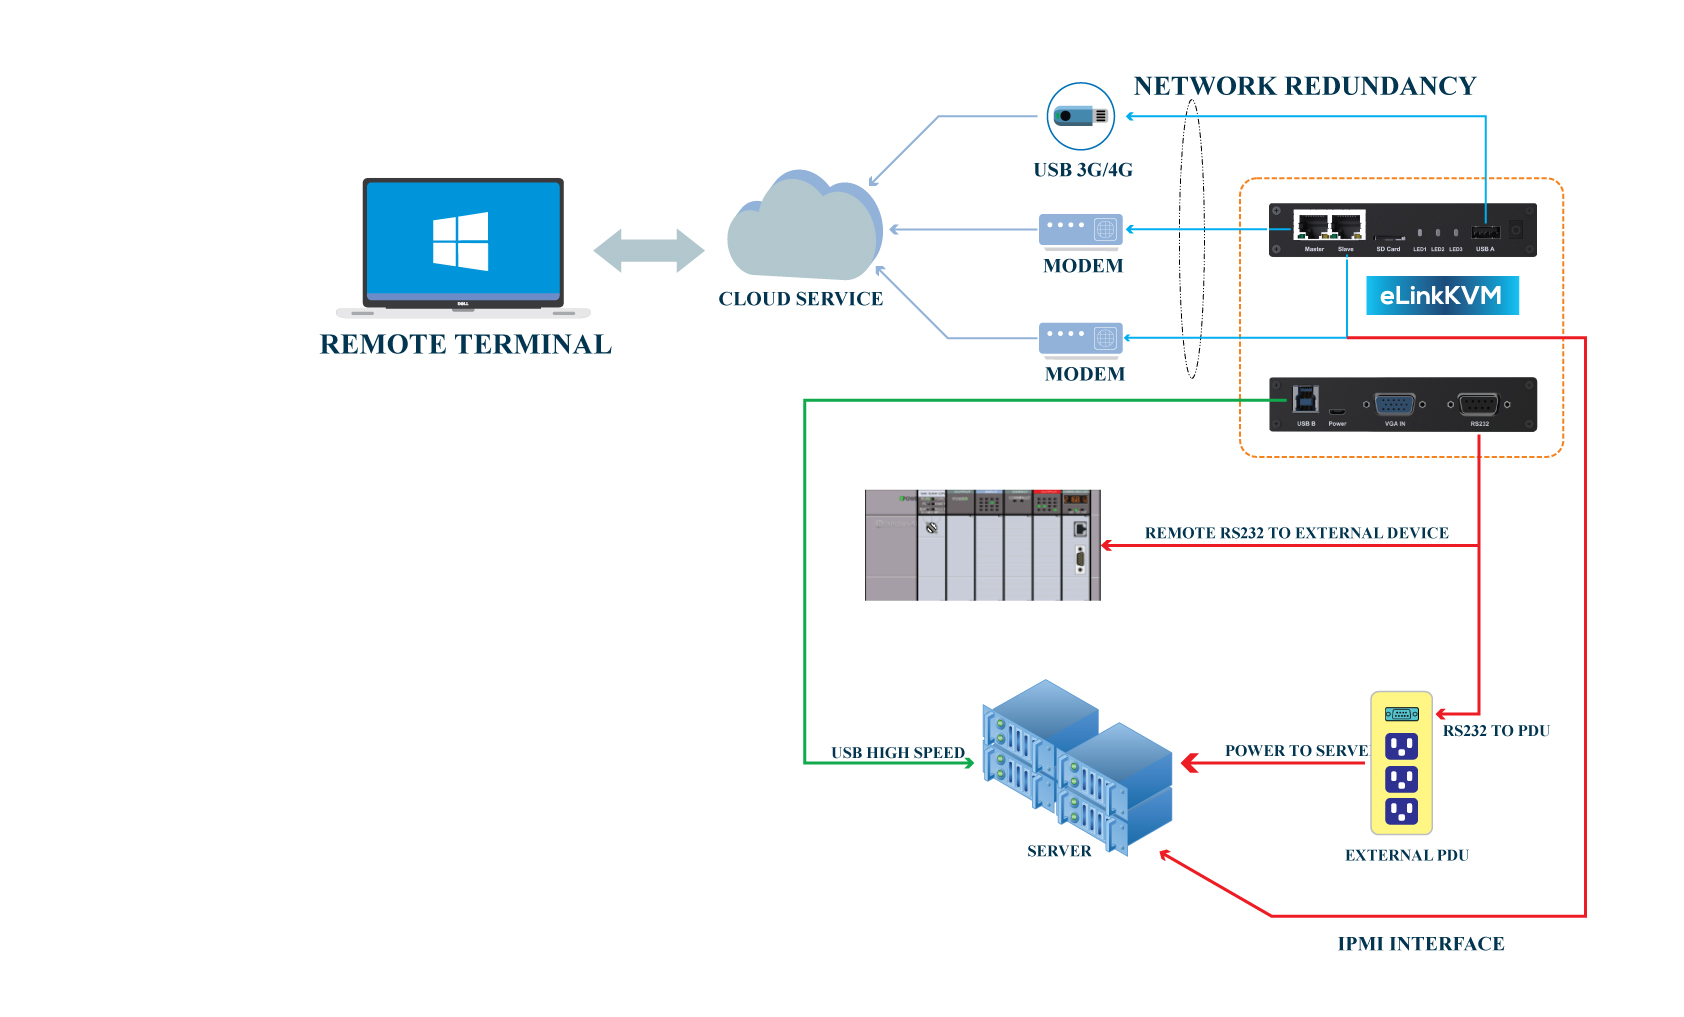
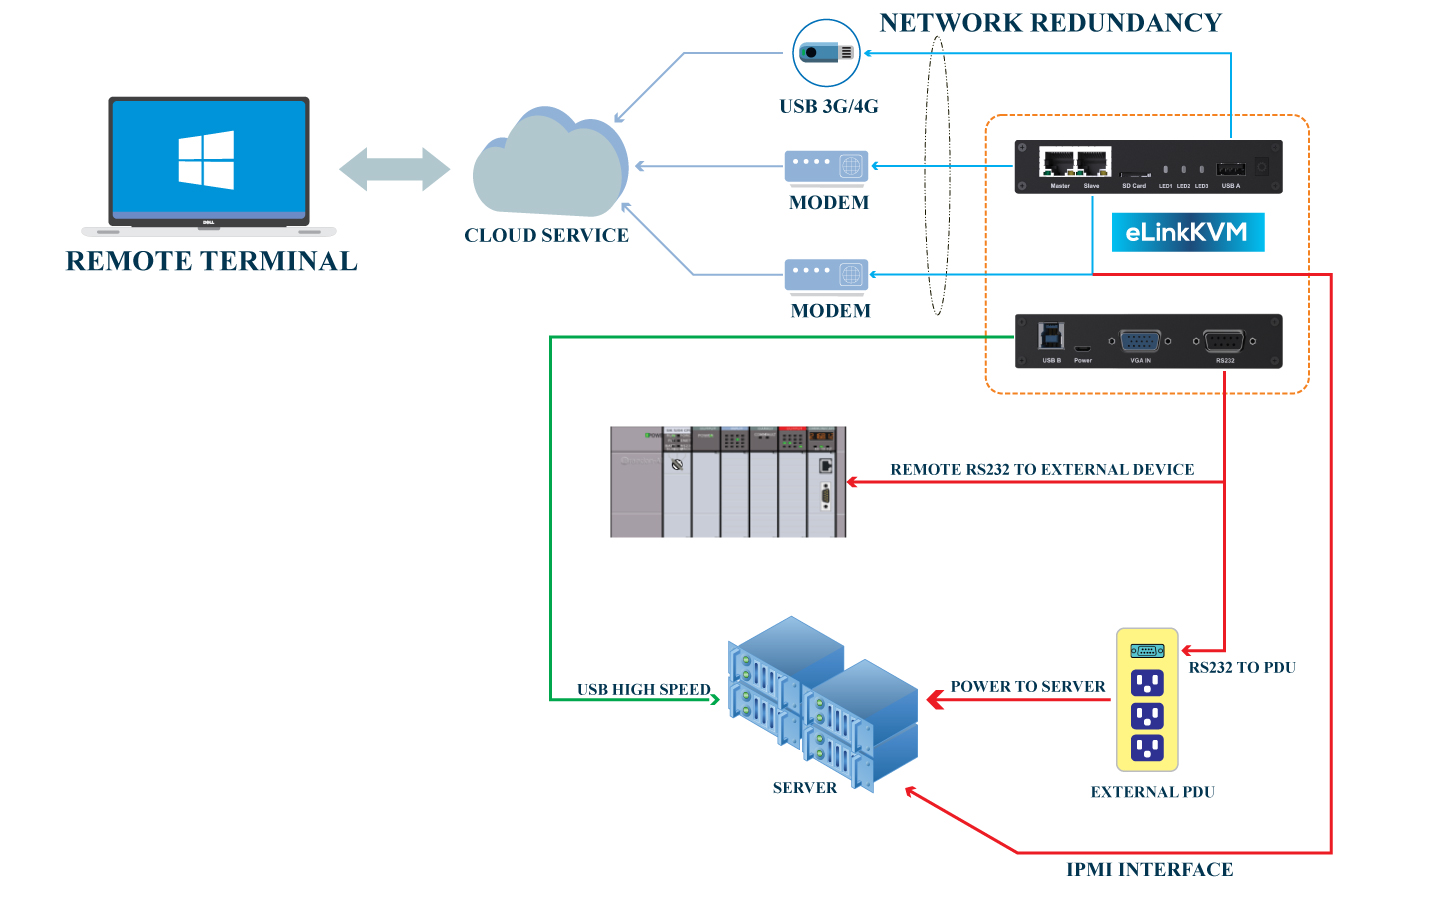
Refine diagram fixed reference path

diff --git a/Docs/english/elinkvm_guide.md b/Docs/english/elinkvm_guide.md
@@ -210,25 +210,29 @@ The following diagram shows the scope covered by Booster:
 
 ### c. Bundled hardware components
 
-### **Todo: Change to "System Configuration & Cables here", add below figures**
+|      ![](../../Resource/ElinkGate_full_connection.jpg)       |
+| :----------------------------------------------------------: |
+| *Figure 1: Complete system eLinkKVM connect to Router, connect to IPMI server, USB, RS232, external PDU, USB 3G...* |
 
-- Figure 1: Complete system eLinkKVM connect to Router, connect to IPMI server, USB, RS232, external PDU, USB 3G... 
+|![](../../Resource/Elinkkvm_lite.jpg)|
+| :----------------------------------------------------------: |
+|              *Figure 2: ELinkKVM Lite A minimal connection just USB (to run Booster), eLinkKVM connect to Router, eLinkKVM connect to IPMI*              |
 
-![](..\..\Resource\ElinkGate_full_connection.jpg)
+|![](../../Resource/elinkkvm_bridge_network.jpg)|
+| :----------------------------------------------------------: |
+|              *Figure 3: using feature network bridge to save network connection (network cable to eLinkKVM to Master Connector & from Slave Connector to Server), eLinkKVM connect USB to server*|
 
-- Figure 2: A minimal connection just USB (to run Booster), eLinkKVM connect to Router, eLinkKVM connect to IPMI -> describe to use eLinkKVM Lite Version
-- ![](..\..\\Resource\Elinkkvm_lite.jpg)
-- Figure 3: using feature network bridge to save network connection (network cable to eLinkKVM to Master Connector & from Slave Connector to Server), eLinkKVM connect USB to server
+| ![Multiple network layer](../../Resource/elinkkvm_multiple_network_layer.jpg) |
+| :----------------------------------------------------------: |
+|              *Figure 4: Seperate network layer*              |
 
-![](..\..\Resource\elinkkvm_bridge_network.jpg)
+| ![](../../Resource/elinkkvm_multiple_usb_device.jpg)|
+| :----------------------------------------------------------: |
+|              *Figure 5: Extend function with USB device*              |
 
-- Figure 4: eLinkKVM connect to 2 networks (master connect to Local Network, slave connect to Router), the local network will be controlled by Datacenter, slave network will be controlled by user
-
-![](..\..\Resource\elinkkvm_multiple_network_layer.jpg)
-
-* Extend function with Usb function
-
-![](..\..\Resource\elinkkvm_multiple_usb_device.jpg)
+|![](..\..\Resource\elinkkvm_configure_router.jpg)|
+| :----------------------------------------------------------: |
+|              *Figure 6: ELinkKVM configure network through multiple network*              |
 
 - 1 eLinkKVM device 
 - 1 Ethernet RJ45 cable

diff --git a/README.md b/README.md
@@ -1,6 +1,6 @@
-[eLink Script API](docs/elink_script_API.md)
+[eLink Script API](docs/vietnamese/elink_script_API.md)
 
-[eLinkKVM Quick Guide](docs/elinkkvm_quickguide.md)
+[eLinkKVM Quick Guide](docs/vietnamese//elinkkvm_quickguide.md)
 
-[eLinkKVM User Guide](docs/elinkvm_guide.md)
+[eLinkKVM User Guide](docs/vietnames/elinkvm_guide.md)
 
